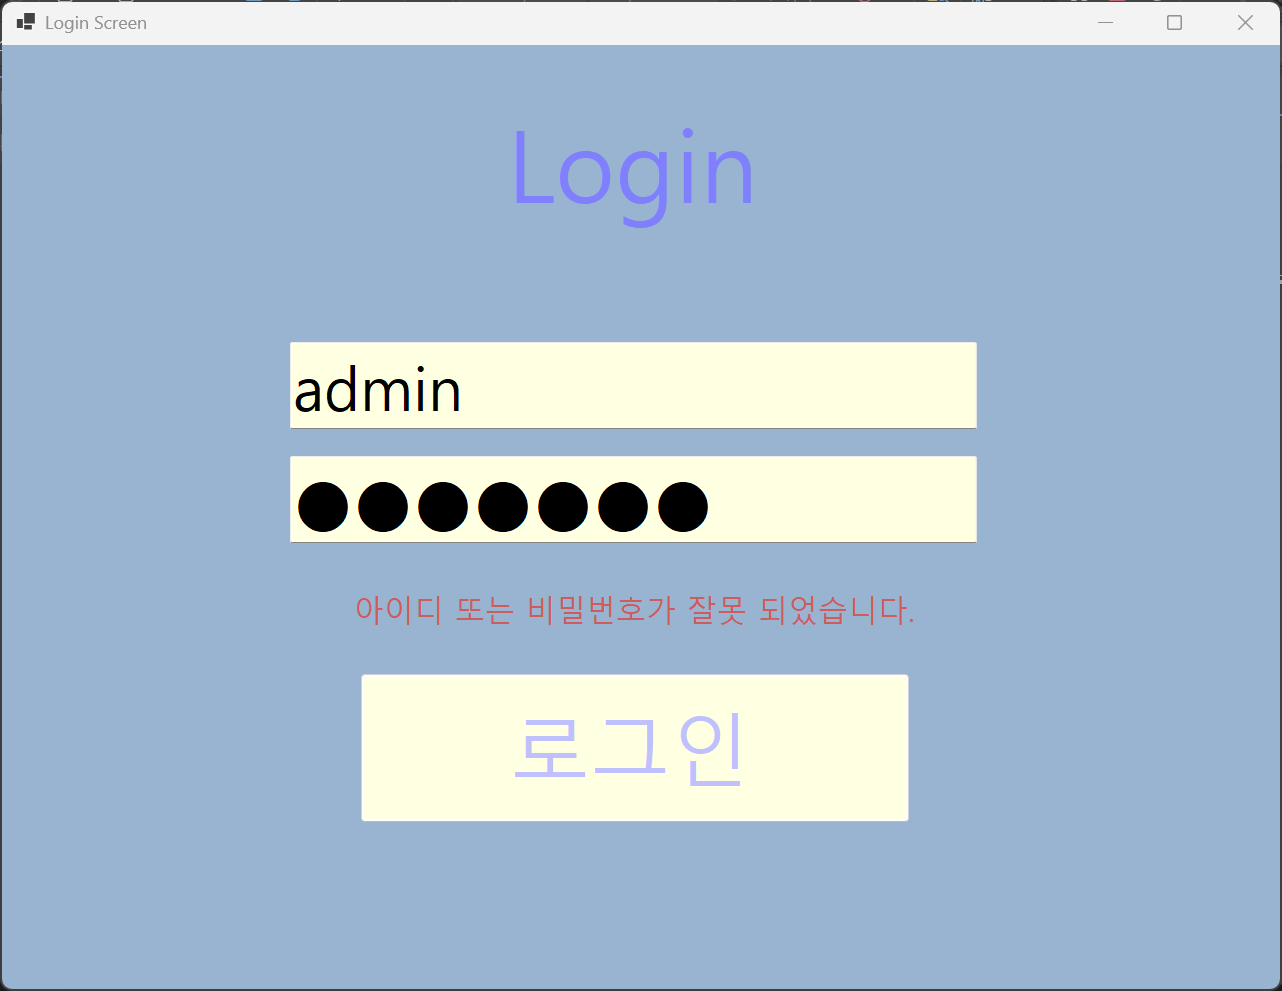
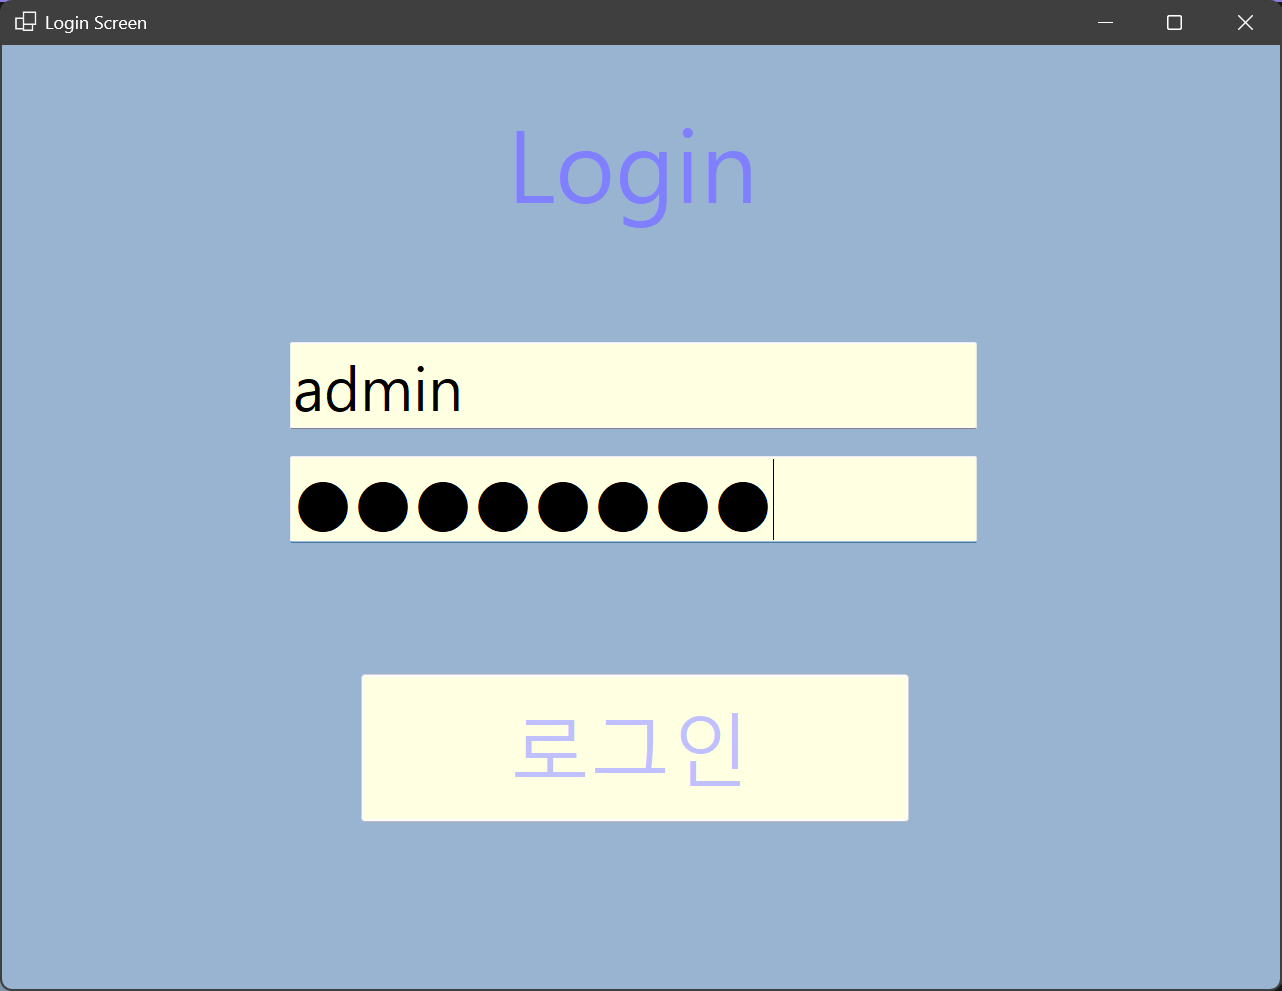
과제2 코딩과 테스트 완료 로그인 실패 시 MessageBox를 띄우는 대신, Label 컨트롤(lblErrorMsg)의 Visible 속성을 사용하여 화면상에 빨간색 텍스트로 에러를 직관적으로 표시하도록 로직을 수정함. 로그인 성공 시에는 해당 에러 메시지를 다시 숨김 처리함. +

diff --git a/README.md b/README.md
@@ -30,9 +30,21 @@
   ## 실행 화면 (과제2)
 과제2 코드의 실행 스크린샷
 ![과제2 실행화면](img/screenshot-2.png)
+![과제2 실행화면](img/screenshot-2-1.png)
 
 - **과제 내용:**
   - 에러 발생 시 MessageBox를 띄우지 말고 아이디와 패스워드를 입력하는 폼 화면에 보여줍니다.
   - Label 컨트롤과 Visible 속성을 활용하여 메시지 보이기/숨기기 기능을 구현합니다.
 - **구현 내용과 기능 설명:**
   - 로그인 실패 시 매번 확인을 눌러야 하는 팝업창을 띄우는 대신, 입력 폼 하단에 빨간색 경고 문구(Label)가 나타나도록 수정했습니다. 로그인에 성공하면 해당 에러 메시지는 다시 숨김 처리됩니다.
+
+## 실행 화면 (과제3)
+과제3 코드의 실행 스크린샷
+![과제3 실행화면](img/screenshot-3.png)
+
+- **과제 내용:**
+  - Enter키를 치면 다음 입력 창으로 넘어가거나 곧바로 로그인 되도록 포커스 흐름을 정리합니다.
+  - 전체 입력을 지우는 기능과 패스워드를 보여주는 편리한 UI/UX를 구현합니다.
+- **구현 내용과 기능 설명:**
+  - 아이디 입력 후 키보드 Enter를 누르면 비밀번호 창으로, 비밀번호 창에서 Enter를 누르면 로그인 버튼이 클릭되도록 구현하여 마우스 없이도 빠른 로그인이 가능합니다.
+  - '비밀번호 표시' 체크박스를 눌러 가려진 암호를 확인할 수 있고, '초기화' 버튼을 통해 텍스트 필드와 에러 메시지를 처음 상태로 리셋할 수 있습니다.
